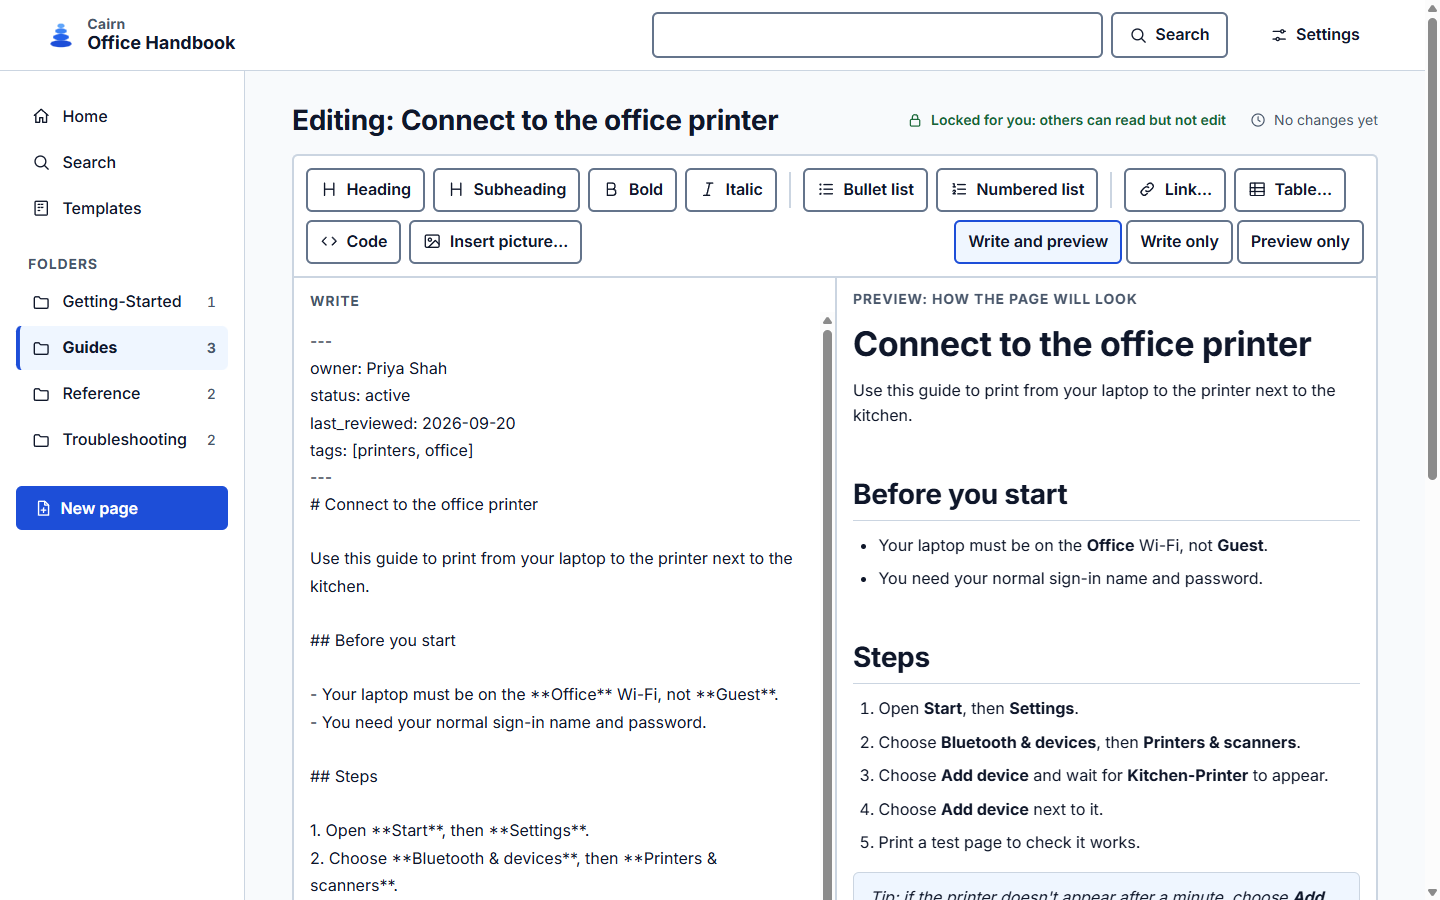
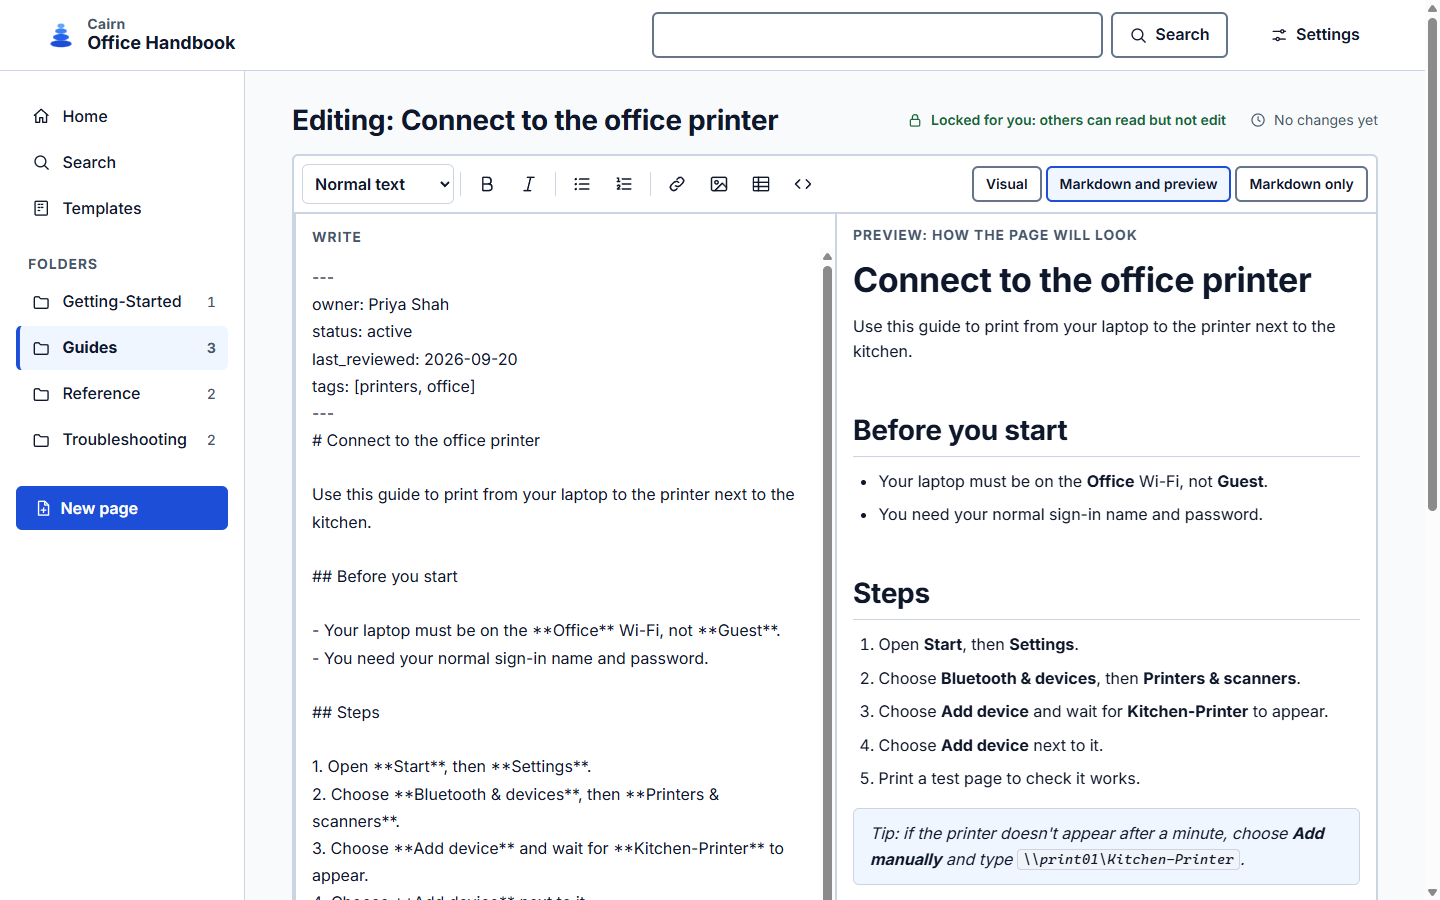
fix: hide the visual pane in Markdown modes; update screenshots
The rule hiding the visual pane lost to the later .pane { display: flex },
so an empty Visual area appeared in Markdown and preview / Markdown only.
Use a more specific selector and guard it with a UI test. The Text style
list now reads the heading level after the editor applies the cursor move.
README screenshots: new visual editing shot, retaken editor shot.

diff --git a/assets/js/editor.js b/assets/js/editor.js
@@ -680,8 +680,9 @@ function mountEditor(ctx, path, start) {
     showStyle(v.slice(from).match(/^(#{1,6})\s/)?.[1].length || 0);
   };
   for (const ev of ['keyup', 'click', 'focus']) ta.addEventListener(ev, syncStyle);
-  for (const ev of ['keyup', 'click']) {
-    visualRoot.addEventListener(ev, () => { if (visual) showStyle(visual.headingLevel()); });
+  // The editor applies a cursor move just after the event, so read it a tick later.
+  for (const ev of ['keyup', 'mouseup', 'focusin']) {
+    visualRoot.addEventListener(ev, () => setTimeout(() => { if (visual) showStyle(visual.headingLevel()); }, 0));
   }
 
   const toolbar = toolbarKeys(h('div', { class: 'toolbar', role: 'toolbar', 'aria-label': 'Formatting', 'aria-controls': 'md-text' },

diff --git a/assets/css/app.css b/assets/css/app.css
@@ -439,7 +439,7 @@ html[data-toolbar="words"] .btn-icon::after { display: none; }
 .editor-panes[data-view="preview"] .pane-write { display: none; }
 
 /* Visual editing: one pane, the page as it will look, editable in place. */
-.pane-visual { display: none; }
+.editor-panes:not([data-view="visual"]) .pane-visual { display: none; }
 .editor-panes[data-view="visual"] { grid-template-columns: 1fr; }
 .editor-panes[data-view="visual"] .pane-write,
 .editor-panes[data-view="visual"] .pane-preview { display: none; }

diff --git a/tests/ui_quality.rs b/tests/ui_quality.rs
@@ -251,6 +251,17 @@ fn buttons_always_carry_visible_words() {
 }
 
 #[test]
+fn only_the_chosen_editing_mode_is_shown() {
+    // `.pane` sets `display: flex`, so hiding the visual pane needs a more
+    // specific rule than `.pane-visual` alone (which `.pane` would override).
+    let css = asset("css/app.css");
+    assert!(
+        css.contains(".editor-panes:not([data-view=\"visual\"]) .pane-visual { display: none; }")
+    );
+    assert!(css.contains(".editor-panes[data-view=\"visual\"] .pane-preview { display: none; }"));
+}
+
+#[test]
 fn the_vendored_editor_engine_never_talks_to_the_network() {
     let bundle = asset("vendor/milkdown.js");
     for call in [

diff --git a/README.md b/README.md
@@ -43,9 +43,13 @@ A page, with its owner, status, review date, and editing state beside it.
 
 ![A page in Cairn with its details panel](docs/screenshots/page.png)
 
-The editor: worded formatting buttons and a live preview, so nobody needs to know Markdown.
+Visual editing: write on the page as it will look. Markdown shortcuts such as `## ` and `- ` format as you type.
 
-![The Cairn editor with the formatting toolbar and live preview](docs/screenshots/editor.png)
+![Visual editing in Cairn, with the page editable as it will look](docs/screenshots/visual.png)
+
+Or write Markdown with a live preview beside it. Point at a toolbar icon to see its name.
+
+![The Cairn editor in Markdown mode with the icon toolbar and live preview](docs/screenshots/editor.png)
 
 <details>
 <summary>More screenshots: templates, downloads, and timezones</summary>

diff --git a/CHANGELOG.md b/CHANGELOG.md
@@ -2,6 +2,13 @@
 
 All notable changes that people using Cairn would notice are listed here.
 
+## Unreleased
+
+### Fixed
+
+- In **Markdown and preview** and **Markdown only**, an empty Visual area also appeared and pushed the preview down the page.
+- In Visual editing, the **Text style** list now shows the style of the line you click on straight away.
+
 ## 0.3.0 (2026-09-29)
 
 ### Added
